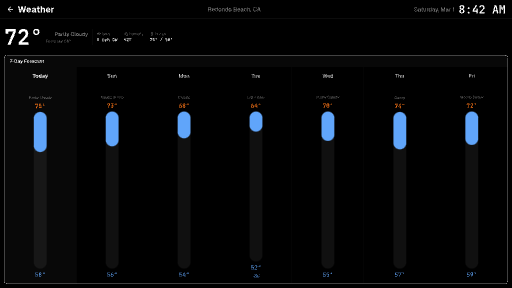
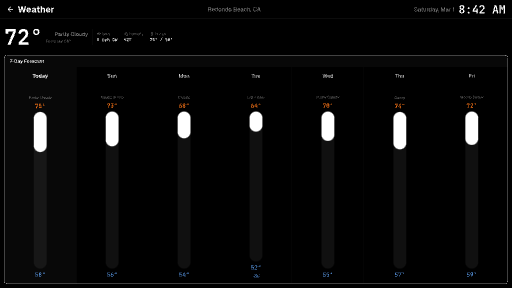
Make weather temp bars monochrome white

diff --git a/src/components/FullWeatherPage.jsx b/src/components/FullWeatherPage.jsx
@@ -130,7 +130,7 @@ function VerticalTempBar({ lo, hi, globalMin, globalMax }) {
       <div style={{
         position: "absolute", left: 0, width: "100%", borderRadius: 24,
         bottom: `${bottomPct}%`, height: `${Math.max(heightPct, 5)}%`,
-        background: "linear-gradient(to top, #60A5FA, #F97316)",
+        background: "#FFFFFF",
       }} />
     </div>
   );
